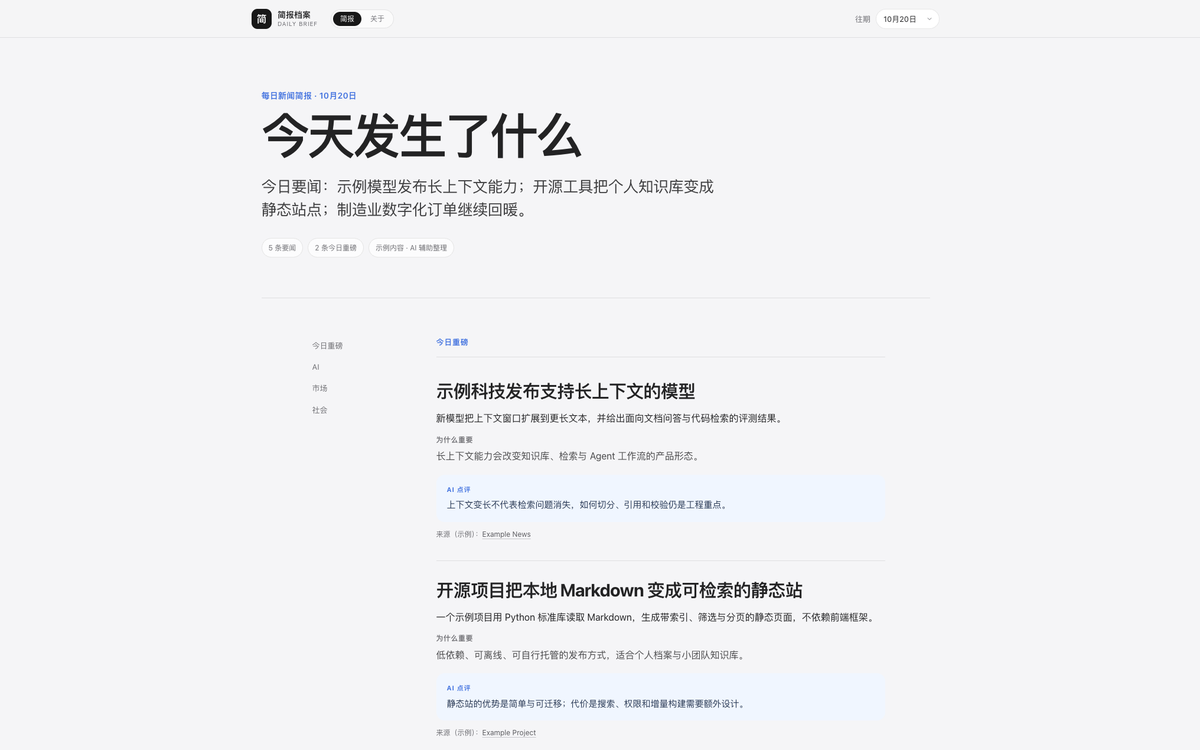
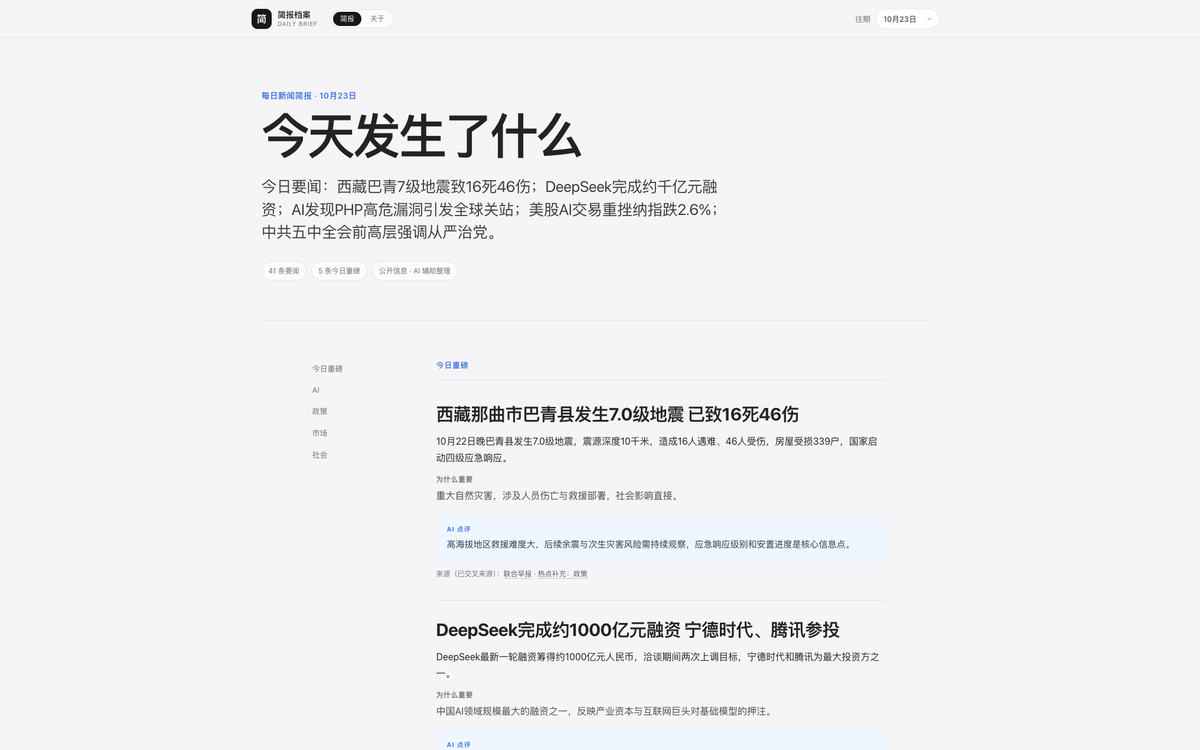
chore: real-data preview, drop usage note from section nav

Changed region(s): [[0.3392, 0.4293, 0.74, 1.0], [0.2158, 0.2147, 0.6167, 0.368], [0.2467, 0.46, 0.2775, 0.5213]]

diff --git a/build_site.py b/build_site.py
@@ -171,7 +171,7 @@ def render_header(active: str, right: str = "", brand_sub: str = "Notes") -> str
 def render_footer(active: str, lines: list[str] | None = None) -> str:
     body_lines = lines or [
         f"{esc(SITE.get('site_name'))} · {esc(SITE.get('tagline'))}",
-        "示例项目 · 无广告、无追踪。",
+        "每日简报 · 无广告、无追踪。",
     ]
     paragraph = "\n".join(f"    <p>{line}</p>" for line in body_lines)
     return f"""  <footer>
@@ -294,7 +294,8 @@ def render_markdown(source: str) -> tuple[str, str, str, dict[str, int], list[tu
                 "市场": "market",
                 "社会": "society",
             }.get(current_section, re.sub(r"\W+", "-", current_section).strip("-") or "section")
-            sections.append((current_section, section_id))
+            if current_section != "使用说明":
+                sections.append((current_section, section_id))
             output.append(
                 f'<section class="brief-section" id="{html.escape(section_id)}">'
                 f'<header class="section-header"><span>{html.escape(current_section)}</span></header>'
@@ -372,7 +373,7 @@ def brief_page(latest: dict[str, object], archive: list[dict[str, object]]) -> s
     footer = render_footer(
         "简报",
         lines=[
-            f"{esc(site_name)} · 示例内容，来自可编辑的 Markdown。",
+            f"{esc(site_name)} · 每日简报归档，由可编辑的 Markdown 构建。",
             "仅供信息整理，不构成投资、法律或医疗建议。",
         ],
     )
@@ -398,7 +399,7 @@ def brief_page(latest: dict[str, object], archive: list[dict[str, object]]) -> s
       <div class="meta" aria-label="日报信息">
         <span id="itemCount">{total} 条要闻</span>
         <span id="topCount">{int(stats.get('重磅', 0))} 条今日重磅</span>
-        <span>示例内容 · AI 辅助整理</span>
+        <span>公开信息 · AI 辅助整理</span>
       </div>
     </section>
 
